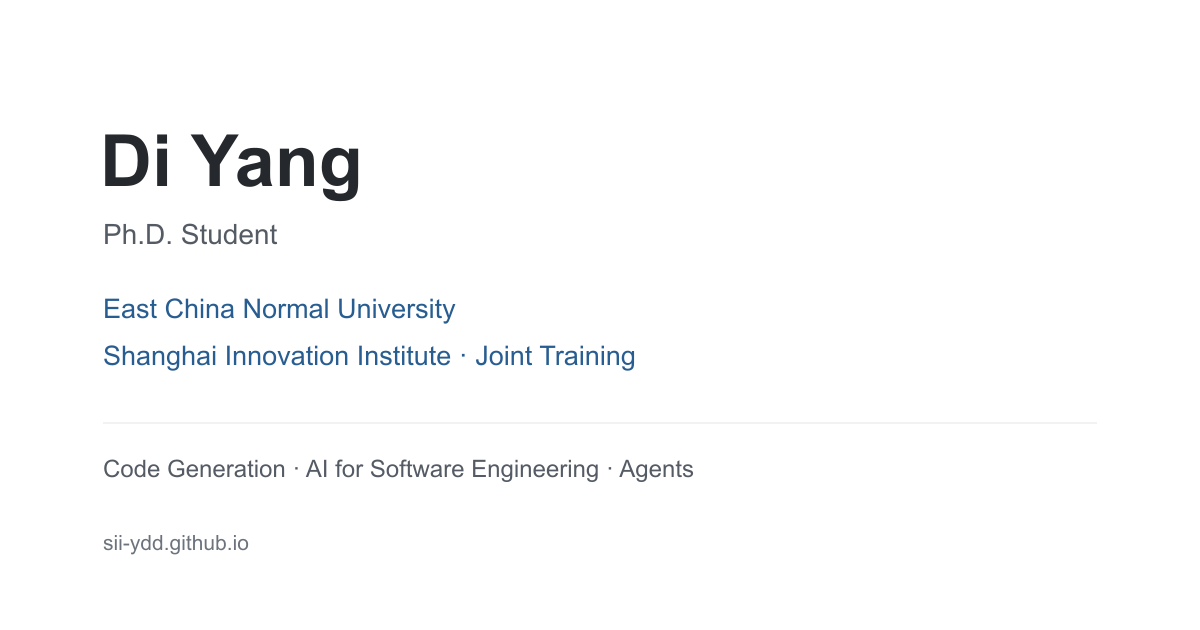
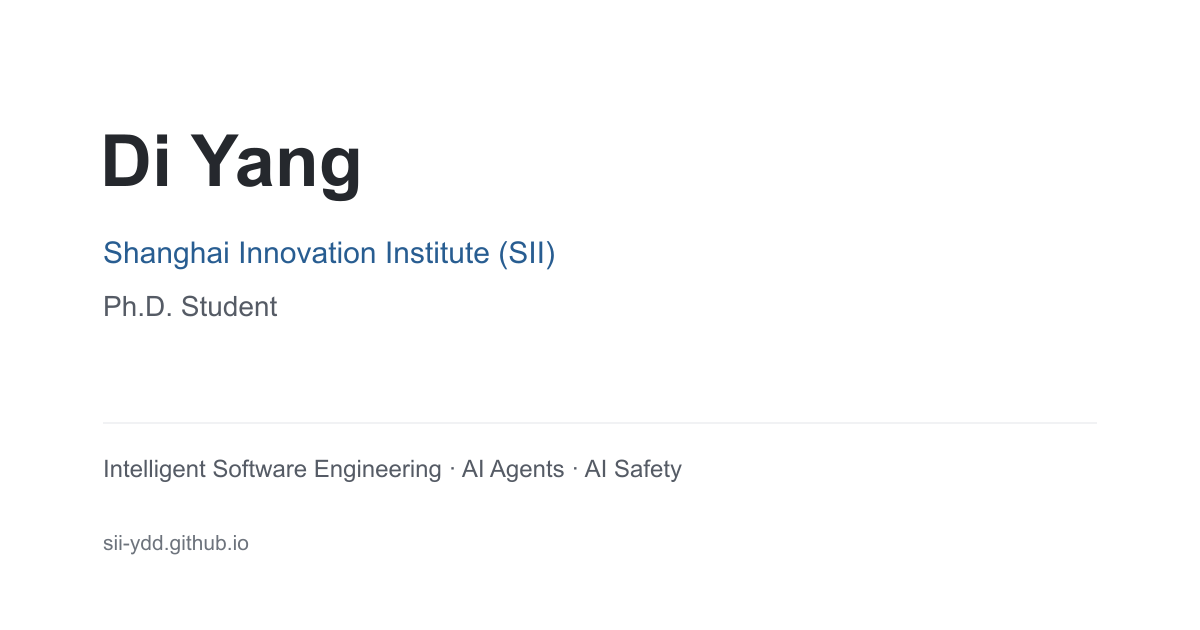
Update SII affiliation and research interests

diff --git a/src/data/profile.ts b/src/data/profile.ts
@@ -1,16 +1,14 @@
 export const profile = {
   name: 'Di Yang',
-  institution: 'East China Normal University',
-  institutionZh: '华东师范大学',
-  jointInstitution: 'Shanghai Innovation Institute',
-  jointInstitutionZh: '上海创智学院',
+  institution: 'Shanghai Innovation Institute',
+  institutionZh: '上海创智学院',
   scholar: 'https://scholar.google.com/citations?user=GpuCXTMAAAAJ&hl=en',
   github: 'https://github.com/SII-YDD',
   url: 'https://sii-ydd.github.io',
   updated: '2026-09-16',
-  bio: 'My research focuses on code generation, AI for software engineering, and agents. I am interested in how AI systems understand software requirements and generate reliable code.',
-  bioZh: '我的研究方向包括代码生成、面向软件工程的人工智能和智能体，关注 AI 系统如何理解软件需求，并生成可靠的代码。',
-  interests: ['Code Generation', 'AI for Software Engineering', 'Agents'],
+  bio: 'My research focuses on intelligent software engineering, AI agents, and AI safety.',
+  bioZh: '我的研究方向包括智能化软件工程、Agent（智能体）和人工智能安全。',
+  interests: ['Intelligent Software Engineering', 'AI Agents', 'AI Safety'],
   hobbies: [
     { emoji: '🏀', en: 'Basketball', zh: '篮球' },
     { emoji: '🥾', en: 'Hiking', zh: '徒步' },

diff --git a/src/styles/global.css b/src/styles/global.css
@@ -77,8 +77,6 @@ section, article { scroll-margin-top: 32px; }
 h1 { font-size: 42px; line-height: 1.2; font-weight: 650; letter-spacing: -1.3px; }
 .greeting-emoji { display: inline-block; font-size: .62em; vertical-align: .08em; margin-left: 6px; }
 .role { margin-top: 12px; color: var(--secondary); font-size: 17px; }
-.affiliations { margin-top: 6px; font-size: 16px; line-height: 1.8; }
-.affiliations p { color: var(--secondary); }
 .bio { max-width: 780px; margin-top: 25px; line-height: 1.85; }
 .profile-links { display: flex; gap: 26px; margin-top: 19px; font-size: 14px; }
 .profile-links a { display: inline-flex; align-items: center; gap: 5px; min-height: 28px; }
@@ -137,7 +135,6 @@ code { font-family: ui-monospace, SFMono-Regular, Consolas, monospace; }
   .profile-section { padding: 37px 0 34px; }
   h1 { font-size: 36px; }
   .role { font-size: 16px; }
-  .affiliations { font-size: 15px; }
   .bio { font-size: 15px; margin-top: 21px; }
   .section { margin-bottom: 32px; padding-top: 23px; }
   h2 { font-size: 20px; }

diff --git a/README.md b/README.md
@@ -38,8 +38,8 @@ This site is configured for the public repository **SII-YDD/sii-ydd.github.io**.
 
 ## Sources and publication status
 
-- Identity and research interests: [Google Scholar](https://scholar.google.com/citations?user=GpuCXTMAAAAJ&hl=en).
-- Ph.D. status, joint training at SII, and the Distinguished Paper Award: supplied by Di Yang on 2026-09-16.
+- Identity and publication profile: [Google Scholar](https://scholar.google.com/citations?user=GpuCXTMAAAAJ&hl=en).
+- SII Ph.D. student affiliation, research interests (intelligent software engineering, AI agents, AI safety), hobbies, and the Distinguished Paper Award: supplied by Di Yang on 2026-09-16.
 - Institution's English name: [Shanghai Innovation Institute](https://www.sii.edu.cn/).
 - Conference title, authors, venue, and DOI: [ASE 2026 official program](https://conf.researchr.org/track/ase-2026/ase-2026-not-in-person-presentations), [ACM DOI](https://doi.org/10.1145/3832783.3834403).
 - Orchid benchmark and manuscript: [arXiv:2604.21505](https://arxiv.org/abs/2604.21505), [Hugging Face dataset](https://huggingface.co/datasets/SII-YDD/Orchid).
